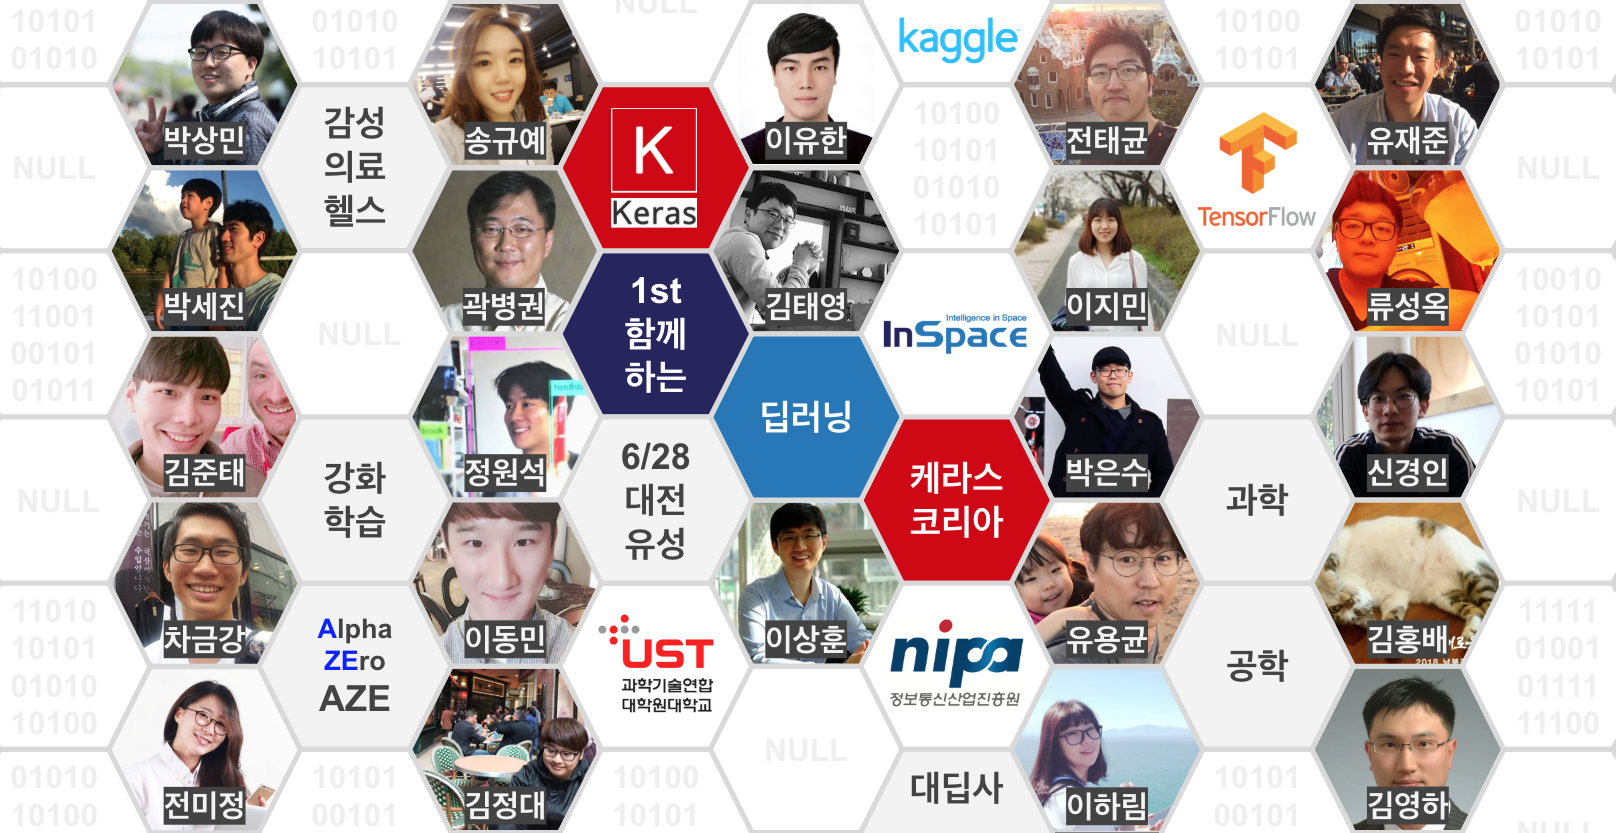
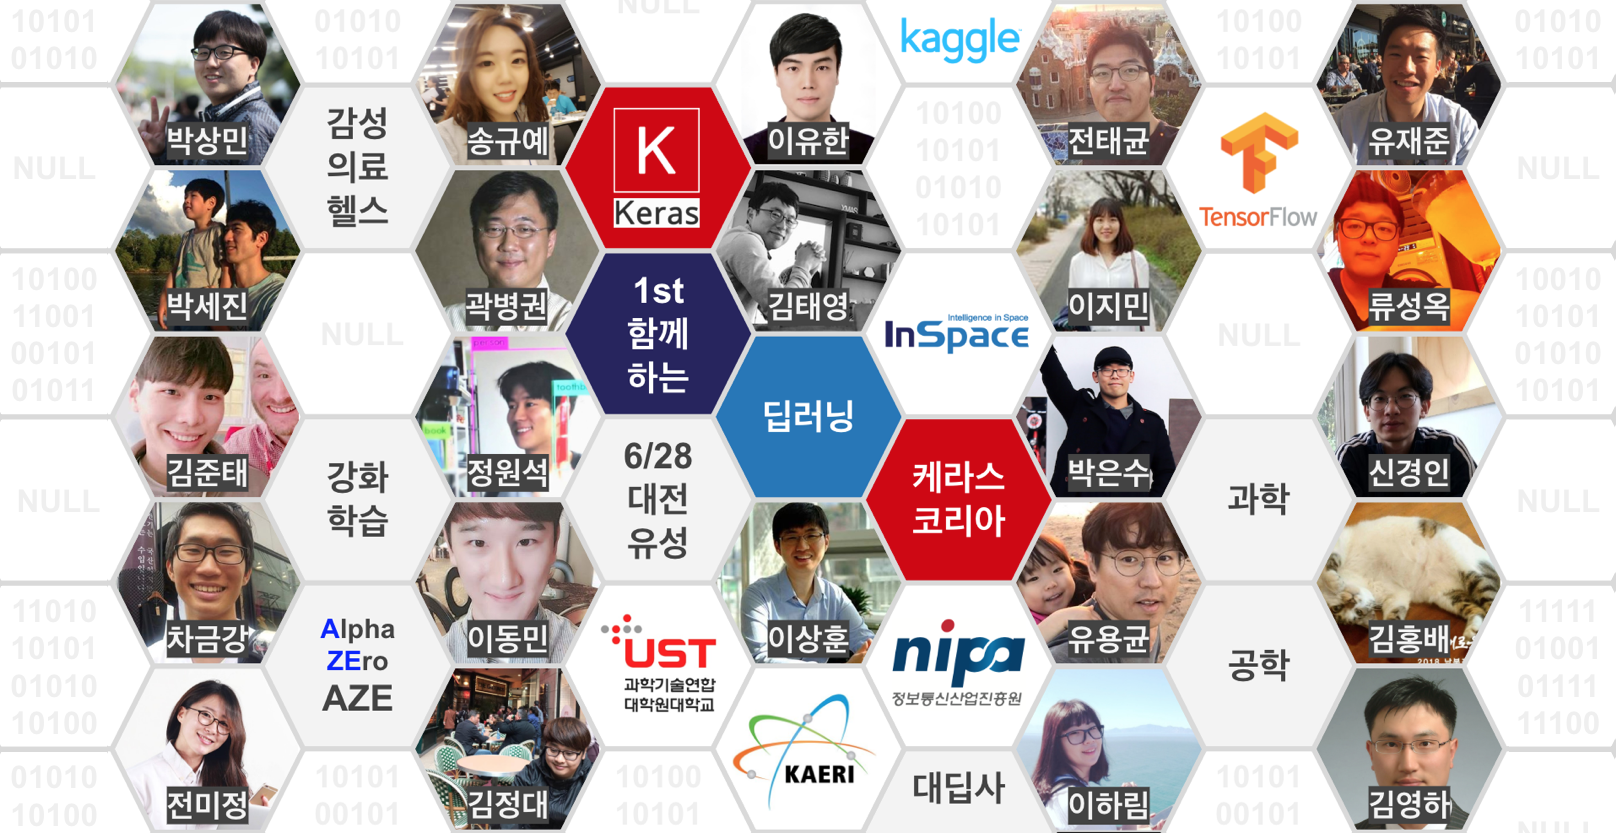
no message

diff --git a/_posts/2018-6-28-ISS_1st_Deep_Learning_Conference_All_Together.md b/_posts/2018-6-28-ISS_1st_Deep_Learning_Conference_All_Together.md
@@ -17,7 +17,7 @@ image: http://tykimos.github.io/warehouse/2018-6-28-ISS_1st_Deep_Learning_Confer
     * 세션 B: 사이언스홀 60명
     * 세션 C: 대회의실 30명
 
-3. 주최 : (주)인스페이스, 케라스 코리아, 대딥사
+3. 주최 : (주)인스페이스, 케라스 코리아, 대딥사, 한국원자력연구원
 4. 후원 : UST 과학기술연합대학원대학교, NIPA 정보통신산업진흥원
 5. 대상 : 인공지능 및 딥러닝에 관심있거나 관련 연구를 수행하시는 분들 (약 500명)
 
@@ -362,11 +362,11 @@ TensorFlow에서 Object Detection API를 제공하고 있으며, COCO, Kitti, Op
 감성기술로 행복한 세상을 만들어가고 있는 orbis.ai(오르비스에이아이) 기업의 공동창업자이자, 데이터과학자인 송규예 입니다. 감성인식과 감성표현을 위한 딥러닝 모델개발을 하고 있습니다. 개인적으로는 사람의 세포부터 무의식까지, 사람에 대한 모든 것을 파헤치고 있으며 사람, 자연 구조와 닮은 기술구현에 관심이 많습니다. 
 
 #### 발표소개
-"딥러닝 X 심리상담기법" . 어울릴 듯, 어울리지않는 두 분야의 콜라보레이션 ☆사람의 감성상태 진단을 위한 감성인식 딥러닝 기술과 심리상담기법 측면에서 활용할 수 있는 딥러닝 기술에는 무엇이 있을지 다뤄볼 예정입니다. 
+"딥러닝 X 심리" . 어울릴 듯, 어울리지않는 두 분야의 콜라보레이션 ☆사람의 감정인식을 위한 딥러닝 기술과 감정표현 측면에서 활용할 수 있는 딥러닝 기술에는 무엇이 있을지 다뤄보며, 저희 회사, 오르비스에이아이에서 진행하고 있는 감정인식 기술에 대해서 설명합니다. 
 
-1. intro : 딥러닝과 심리상담기법의 운명적 만남 (부제 : 나는 네가 필요해)
-2. 감성인식 딥러닝 기술 소개
-3. 심리상담기법과 접목가능한 딥러닝 기술 소개 (예 : Neural style를 이용한 만다라 미술치료 그림생성)
+1. intro : 딥러닝과 심리의 운명적 만남 (부제 : 나는 네가 필요해)
+2. 감정인식 및 감정표현 딥러닝 기술 소개
+3. 오르비스에이아이에서 진행하는 감정인식 기술 소개
 
 ![img](http://tykimos.github.io/warehouse/2018-6-28-ISS_1st_Deep_Learning_Together_sky_slide.png)
 
@@ -568,6 +568,13 @@ Tensorflow에서 Object Detection API를 제공하고 있으며, COCO, Kitti, Op
 
 #### 블로그 및 깃헙
 * 블로그 : [https://brunch.co.kr/@fermat39](https://brunch.co.kr/@fermat39)
+
+#### 번역서 및 저서
+* Splunk 앱 제작과 대시보드 개발(에이콘출판사) : 빅데이터 플랫폼 Splunk 플랫폼의 앱 개발 설명 [바로가기](http://www.kyobobook.co.kr/product/detailViewKor.laf?ejkGb=KOR&mallGb=KOR&barcode=9788960778207&orderClick=LAG&Kc=)
+* 파이썬 웹 스크래핑(에이콘출판사) : scrapy, beautifulsoup를 활용한 웹 스크래핑 [바로가기](http://www.kyobobook.co.kr/product/detailViewKor.laf?ejkGb=KOR&mallGb=KOR&barcode=9788960779594&orderClick=LAH&Kc=)
+* 뷰티플 자바스크립트(비제이퍼블릭) : 자바스크립트 중급서 [바로가기](http://www.kyobobook.co.kr/product/detailViewKor.laf?mallGb=KOR&ejkGb=KOR&orderClick=LEB&barcode=9791186697184)
+* 누구나 쉽게 배우는 스몰베이직(비제이퍼블릭) : 스몰베이직 초급서 [바로가기](http://www.kyobobook.co.kr/product/detailViewKor.laf?ejkGb=KOR&mallGb=KOR&barcode=9791186697375&orderClick=LAH&Kc=)
+* 머신러닝을 이용한 이미지 분석(비제이퍼블릭) : 텐서플로를 이용해서 자신만의 데이터셋 제작 및 이미지 학습 및 분석 (집필중)
 
 #### 연락처
 * 이메일 : youngha@dplus.company
